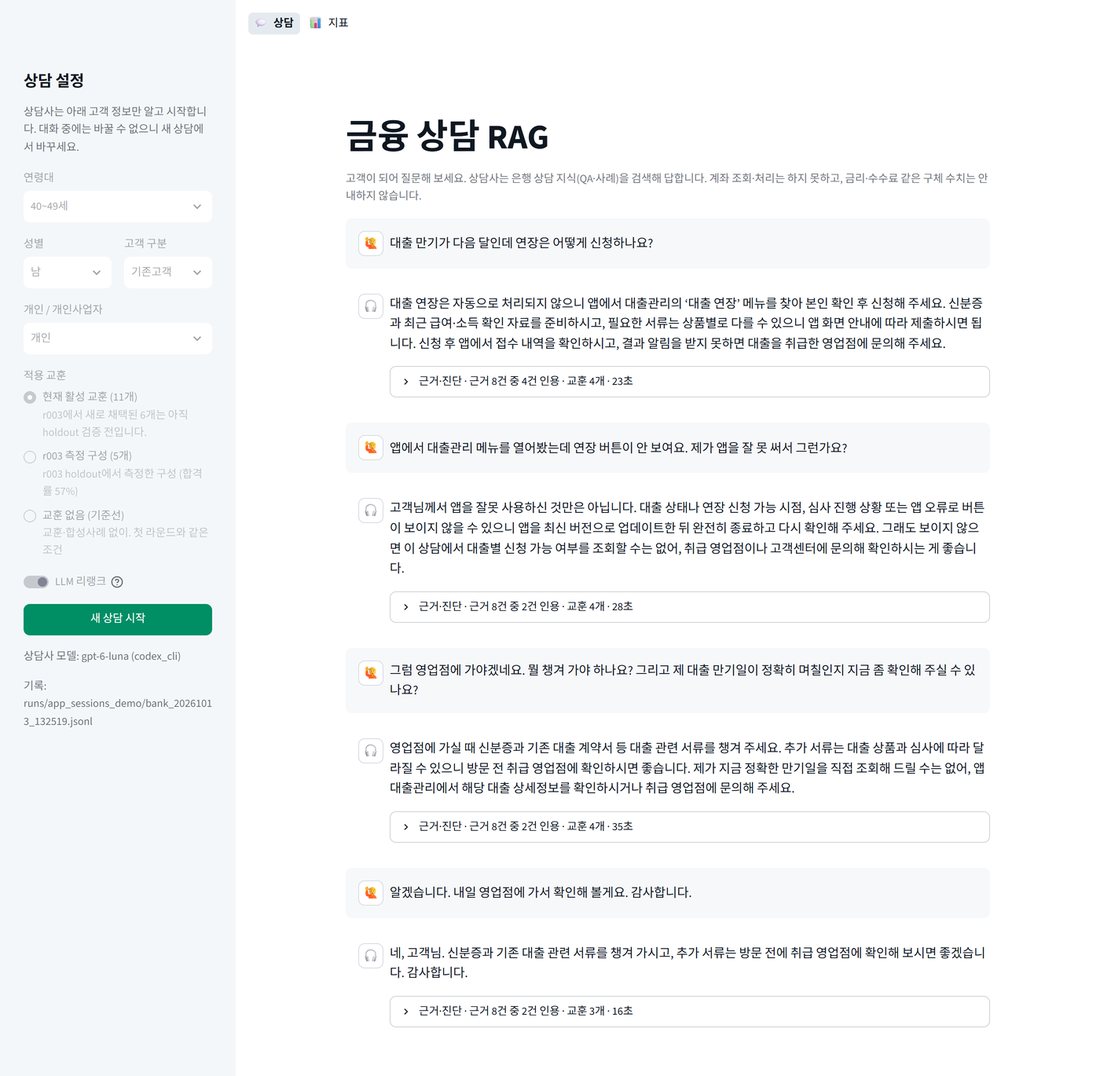
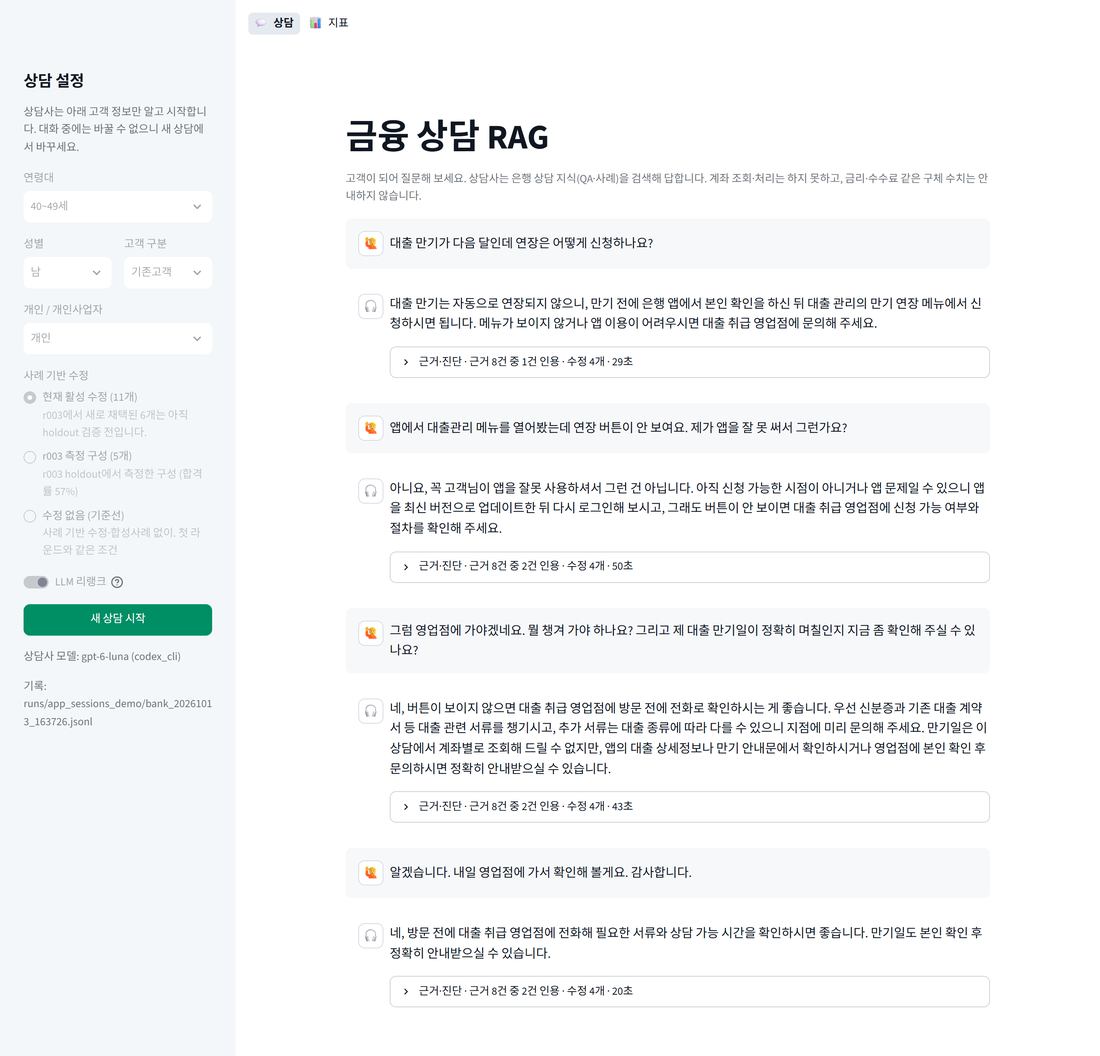
용어 변경: '교훈' → '사례 기반 수정'
- 앱 화면 문구(사이드바, 근거·진단 패널, 지표 탭)를 '사례 기반 수정'·'수정'으로 변경
- README와 docs(설계·결과) 용어 통일, 용어 정의 추가
- 새 화면으로 다시 찍은 상담·지표 스크린샷으로 교체

diff --git a/src/counsel/app.py b/src/counsel/app.py
@@ -41,7 +41,7 @@ def _retriever(domain: str) -> Retriever:
 
 @st.cache_resource(show_spinner=False, max_entries=4)
 def _counselor(domain: str, lessons: str, rerank: bool, store_version: int, measured: tuple[str, ...]) -> Counselor:
-    """교훈 구성 × 리랭크 조합마다 하나. 임베더·리랭커는 공유하고, 저장소 파일이 바뀌면(store_version) 새로 만든다."""
+    """사례 기반 수정 구성 × 리랭크 조합마다 하나. 임베더·리랭커는 공유하고, 저장소 파일이 바뀌면(store_version) 새로 만든다."""
     r = _retriever(domain).fork(rerank)
     if lessons == "none":
         return Counselor(domain, retriever=r, use_feedback=False)
@@ -88,15 +88,15 @@ def _sidebar(latest: str | None, measured: list[str], rate: float | None, active
         client_type = st.selectbox("개인 / 개인사업자", CLIENT_TYPES, disabled=locked)
 
         unverified = [i["id"] for i in active if i["source_round"] == latest]
-        labels = {"active": f"현재 활성 교훈 ({len(active)}개)", "none": "교훈 없음 (기준선)"}
+        labels = {"active": f"현재 활성 수정 ({len(active)}개)", "none": "수정 없음 (기준선)"}
         caps = {"active": (f"{latest}에서 새로 채택된 {len(unverified)}개는 아직 holdout 검증 전입니다." if unverified
                            else "저장소의 활성 항목 전부"),
-                "none": "교훈·합성사례 없이. 첫 라운드와 같은 조건"}
+                "none": "사례 기반 수정·합성사례 없이. 첫 라운드와 같은 조건"}
         if latest:
             labels["measured"] = f"{latest} 측정 구성 ({len(measured)}개)"
             caps["measured"] = f"{latest} holdout에서 측정한 구성" + (f" (합격률 {rate:.0%})" if rate is not None else "")
         opts = [o for o in ("active", "measured", "none") if o in labels]
-        lessons = st.radio("적용 교훈", opts, format_func=labels.get, captions=[caps[o] for o in opts], disabled=locked)
+        lessons = st.radio("사례 기반 수정", opts, format_func=labels.get, captions=[caps[o] for o in opts], disabled=locked)
         rerank = st.toggle("LLM 리랭크", value=True, disabled=locked,
                            help="근거 후보를 LLM 이 다시 고릅니다(완성 구성). 끄면 응답이 빨라지지만 평가한 구성과 달라집니다.")
         st.button("새 상담 시작", on_click=_reset, type="primary", width="stretch")
@@ -145,7 +145,7 @@ def _show(e: dict) -> None:
 def _details(e: dict) -> None:
     res: TurnResult = e["res"]
     total = sum(res.timings.values())
-    head = f"근거·진단 · 근거 {len(res.evidence)}건 중 {len(res.cited)}건 인용 · 교훈 {len(e['lessons'])}개 · {total:.0f}초"
+    head = f"근거·진단 · 근거 {len(res.evidence)}건 중 {len(res.cited)}건 인용 · 수정 {len(e['lessons'])}개 · {total:.0f}초"
     with st.expander(head):
         r = res.route
         if res.evidence_carried:                       # 검색을 건너뛴 턴의 query 는 고객 발화 그대로라 보여 주지 않는다
@@ -155,11 +155,11 @@ def _details(e: dict) -> None:
         names = (("route", "질문 분석"), ("retrieve", "검색·재정렬"), ("respond", "답변 작성"))
         st.caption(" · ".join(f"{label} {res.timings[k]:.1f}초" for k, label in names if k in res.timings))
         if e["lessons"]:
-            st.markdown("**주입된 교훈**")
+            st.markdown("**적용된 수정**")
             for l in e["lessons"]:
                 st.markdown(f"- `{l['id']}` ({l['scope']}) {dash.md(l['trigger'])} → {dash.md(l['text'])}")
         else:
-            st.caption("주입된 교훈 없음")
+            st.caption("적용된 수정 없음")
         st.markdown("**근거 자료** (✓ = 답변에 인용, 본문은 앞부분만)")
         for label, h in _labeled(res.evidence):
             kind = "합성사례" if h.id.startswith("SYN-") else ("QA" if h.collection == "qa" else "상담사례")

diff --git a/src/counsel/app_metrics.py b/src/counsel/app_metrics.py
@@ -1,4 +1,4 @@
-"""앱 지표 화면: 라운드 비교 · 교훈·합성사례 · 내 상담 기록 (데이터는 dashboard.py)."""
+"""앱 지표 화면: 라운드 비교 · 수정·합성사례 · 내 상담 기록 (데이터는 dashboard.py)."""
 from __future__ import annotations
 
 import pandas as pd
@@ -13,7 +13,7 @@ _NUM = st.column_config.NumberColumn
 def metrics_page() -> None:
     domain = load_config()["data"]["domains"][0]
     st.title("지표")
-    t_rounds, t_lessons, t_mine = st.tabs(["라운드 비교", "교훈·합성사례", "내 상담 기록"])
+    t_rounds, t_lessons, t_mine = st.tabs(["라운드 비교", "수정·합성사례", "내 상담 기록"])
     with t_rounds:
         _rounds(domain)
     with t_lessons:
@@ -29,7 +29,7 @@ def _rounds(domain: str) -> None:
     if sm.empty:
         st.info("채점이 끝난 라운드가 없습니다. `python -m counsel.simulate 은행 --round r001` 로 라운드를 실행하세요.")
         return
-    st.caption("holdout 100건(고정 벤치마크)을 같은 심판으로 채점한 값입니다. 라운드마다 달라진 것은 상담사에게 적용한 교훈 구성입니다.")
+    st.caption("holdout 100건(고정 벤치마크)을 같은 심판으로 채점한 값입니다. 라운드마다 달라진 것은 상담사에게 적용한 사례 기반 수정 구성입니다.")
 
     mode = st.radio("변화 비교 대상", ["기준선(첫 라운드)", "직전 라운드"], horizontal=True)
     last = sm.iloc[-1]
@@ -104,14 +104,14 @@ def _rounds(domain: str) -> None:
             st.markdown(ev[1])
 
 
-# --- 교훈·합성사례 ---------------------------------------------------------------------
+# --- 사례 기반 수정·합성사례 ---------------------------------------------------------------------
 
 def _lessons(domain: str) -> None:
     items = dash.lesson_table(domain)
     if items.empty:
         st.info("피드백 저장소가 비어 있습니다.")
         return
-    st.caption("교훈은 상담사 프롬프트에 넣는 지침(범용은 항상, 주제별은 주제가 맞을 때만)이고, 합성사례는 지식 검색에 추가하는 QA입니다. "
+    st.caption("사례 기반 수정은 실패 사례에서 만든 지침으로, 상담사 프롬프트에 넣습니다(범용은 항상, 주제별은 주제가 맞을 때만). 합성사례는 지식 검색에 추가하는 QA입니다. "
                "롤백·거부·퇴출된 항목은 상담사에게 적용되지 않습니다.")
     states = list(items["상태"].unique())
     pick = st.multiselect("상태", states, default=["적용 중"] if "적용 중" in states else states)
@@ -140,7 +140,7 @@ def _mine(domain: str) -> None:
     k[1].metric("고객 발화", f"{len(df)}턴", border=True)
     k[2].metric("평균 응답", f"{df['응답(초)'].mean():.0f}초", border=True)
     k[3].metric("근거 인용 턴", f"{(df['인용 수'] > 0).mean():.0%}", border=True)
-    k[4].metric("교훈 주입 턴", f"{(df['교훈 주입'] > 0).mean():.0%}", border=True)
+    k[4].metric("수정 적용 턴", f"{(df['수정 적용'] > 0).mean():.0%}", border=True)
     k[5].metric("이관으로 끝남", f"{df.loc[df['이관'].notna(), '세션'].nunique()}회", border=True)
 
     a, b = st.columns(2)
@@ -165,5 +165,5 @@ def _mine(domain: str) -> None:
         with st.chat_message("assistant", avatar="🎧"):
             st.markdown(dash.md(r["상담사"]))
             sec = "" if pd.isna(r["응답(초)"]) else f" · {r['응답(초)']:.0f}초"
-            st.caption(f"주제 {r['주제']} · 근거 {r['근거 수']}건 중 {r['인용 수']}건 인용 · 교훈 {r['교훈 주입']}개{sec}"
+            st.caption(f"주제 {r['주제']} · 근거 {r['근거 수']}건 중 {r['인용 수']}건 인용 · 수정 {r['수정 적용']}개{sec}"
                        + (f" · 이관 → {r['이관']}" if pd.notna(r["이관"]) else "") + (f" · {r['구성']}" if r["구성"] else ""))

diff --git a/src/counsel/dashboard.py b/src/counsel/dashboard.py
@@ -108,7 +108,7 @@ def latest_retrieval_eval(domain: str) -> tuple[str, str] | None:
     return (found[-1].parent.name, found[-1].read_text(encoding="utf-8")) if found else None
 
 
-# --- 교훈·합성사례 ---------------------------------------------------------------------
+# --- 사례 기반 수정·합성사례 ---------------------------------------------------------------------
 
 def latest_measured(domain: str) -> tuple[str | None, list[str], float | None]:
     """가장 최근 라운드와 그때 상담사에게 적용된 피드백 id, 그 라운드의 holdout 합격률."""
@@ -139,7 +139,7 @@ def lesson_table(domain: str) -> pd.DataFrame:
             topics, text = ", ".join(i.get("topics") or []), f"{i['trigger']} → {i['text']}"
         else:
             scope, topics, text = "합성사례", i.get("topic") or "", f"Q: {i['question']}  A: {i['answer']}"
-        rows.append({"ID": i["id"], "종류": "교훈" if i["kind"] == "lesson" else "합성사례", "범위": scope,
+        rows.append({"ID": i["id"], "종류": "수정" if i["kind"] == "lesson" else "합성사례", "범위": scope,
                      "상태": STATUS_KO.get(i["status"], i["status"]), "출처": i["source_round"],
                      "지지 대화": len({s["scenario_id"] for s in i.get("support") or []}), "주제": topics, "내용": text,
                      "이력": " / ".join(_event(h) for h in i.get("history") or [] if not h["action"].startswith("→"))})
@@ -169,7 +169,7 @@ def load_sessions() -> pd.DataFrame:
                              "상담사": r.get("reply"), "주제": route.get("topic"),
                              "검색": bool(route.get("search")) and not r.get("evidence_carried"),
                              "근거 수": len(r.get("evidence") or []), "인용 수": len(r.get("cited") or []),
-                             "교훈 주입": len(r.get("lessons") or []), "이관": r.get("transfer"),
+                             "수정 적용": len(r.get("lessons") or []), "이관": r.get("transfer"),
                              "분석(초)": t.get("route"), "검색(초)": t.get("retrieve"), "답변(초)": t.get("respond"),
                              "구성": (r.get("mode") or {}).get("label", "")})
     df = pd.DataFrame(rows)
